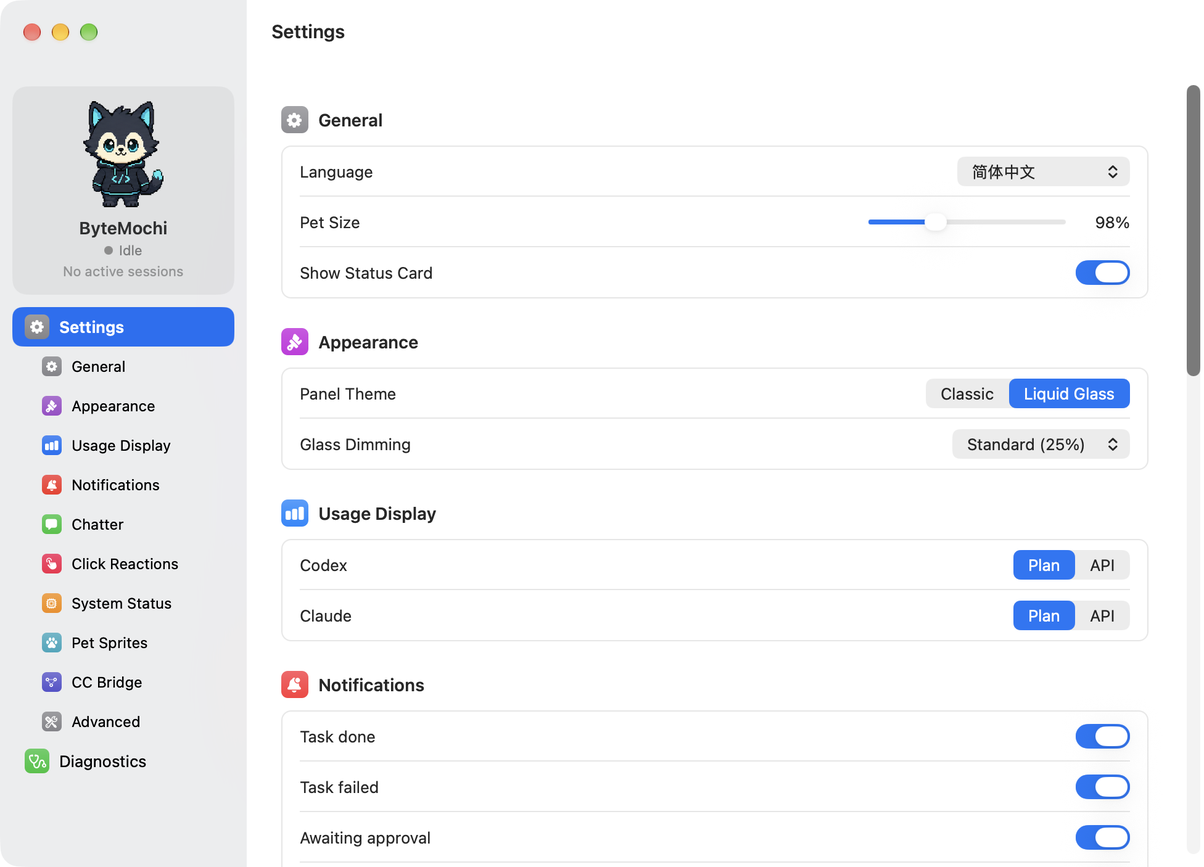
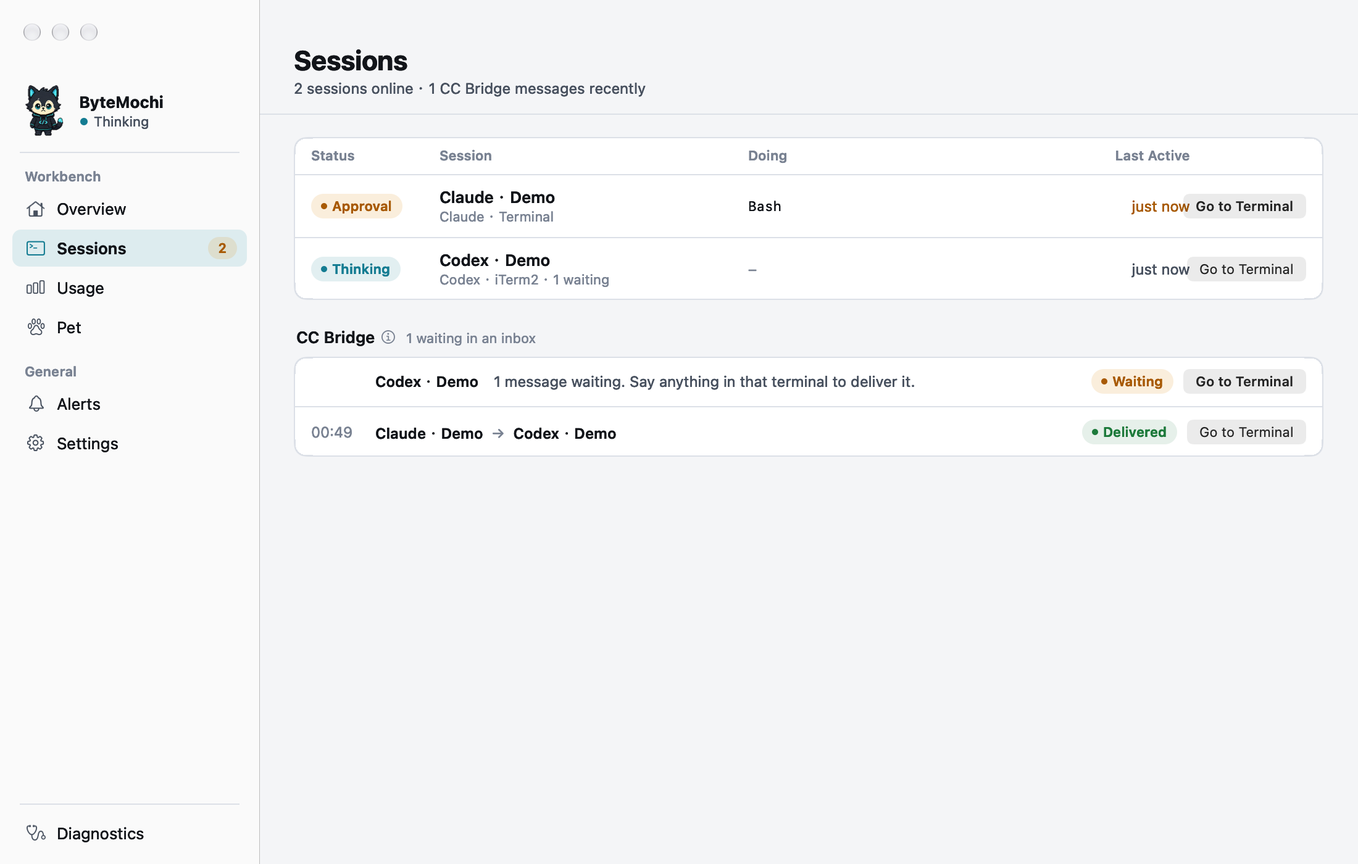
chore: prepare CC Pets v2.3.0 release

diff --git a/docs/release-status.md b/docs/release-status.md
@@ -1,33 +1,51 @@
-# v2.2.1 发布状态
+# v2.3.0 发布准备状态
 
-2026-10-11 已从 `main` 发布正式 tag `v2.2.1` 与 [GitHub Release](https://github.com/Sunnyshinnny776/cc-pets/releases/tag/v2.2.1)。
-本次包含宠物大小、台词来源、菜单与渲染更新。npm 尚未发布；当前机器未登录 npm，等待 npm 负责人发布。
+目标版本为 `v2.3.0`，在 `publish` 分支完成本地发布前准备。代码基线为 `264fc35502f8b73bf87b68ba62883cd552fa0337`（PR #19）。
 
-## 分支职责与发布顺序
+2026-10-20 只读核验：最新 GitHub 正式 Release 和 npm Registry 版本均为 `v2.2.1` / `2.2.1`。
+历史记录见 [v2.2.1 发布状态](release-status-v2.2.1.md)；更早记录见 [v2.2.0 发布状态](release-status-v2.2.0.md)。
 
-- `publish` 完成代码、文档、截图与验证；测试版本使用预发布号并标记 GitHub prerelease。
-- 经明确授权集成 `main` 后复验，正式 tag 和 GitHub Release 从 `main` 发布。
-- npm 发布由独立负责人执行，在 GitHub Release 就绪后协调；未发布 npm 时，自动更新器不会发现新版本。
-- 上一版历史记录见 [v2.2.0 发布状态](release-status-v2.2.0.md)，历史 Release Note 保留。
+## 本次交付范围
 
-## 本次交付
+- 新增主窗口：概览、会话、用量、宠物、提醒、设置和诊断，以及 `cc-pets open [page]`。
+- Claude / Codex 多 Home 账号管理，额度、历史、在线与审批状态、Hooks 和 CC Bridge 集成按账号隔离；用量展示模式按账号保存。
+- 最近 7、30、90 天的本机 Token 用量分析，按账号和模型筛选、每日图表和按日归档。
+- Hooks、CC Bridge、诊断和素材管理的原生运行时；Node.js 仅用于 npm 安装与升级。
+- 诊断页支持已登记账号的 Hooks 和 Claude status line 自动修复，修改前备份；另有窗口外观、玻璃压暗、ByteMochi 迁移及终端、会话和气泡修复。
 
-- `package.json` 更新为 `2.2.1`，构建时写入二进制与 app 元数据。
-- 双语 CHANGELOG 将本次 `Unreleased` 改动归入 `2.2.1`，保留空的 `Unreleased` 小节。
-- 双语 README 更新本版要点、Release Note 链接、版本管理与更新说明读取来源。
-- [双语 Release Note](release-notes-v2.2.1.md) 使用精确语言标题，每种语言 3 条顶层要点，每条不超过 50 字符；补充细节使用段落。
-- 双语 CONTRIBUTING 和本地 `AGENTS.md` 固化每次发版的文档同步、正文解析与先提交再打 tag 规则；本地规则不提交远端。
-- README 封面版本文字更新为 `v2.2.1`，尺寸为 `2560×1280`；界面截图保留其原有版本说明。
+## 发布材料
 
-## 验证与发布进度
+- `package.json` 更新为 `2.3.0`，构建将版本写入二进制及 App 元数据。
+- 双语 README 更新本版要点与 Release Note 链接；双语 CHANGELOG 将已交付改动归入 `2.3.0`，保留空的 `Unreleased` 和全部历史版本。
+- [双语 Release Note](release-notes-v2.3.0.md) 使用精确语言标题，每种语言 3 条顶层要点、每条不超过 50 字符；补充说明使用段落，并链接到本版 tag 的 CHANGELOG。
+- 封面仅替换版本号中的两个数字，尺寸保留 `2560×1280`；逐像素比对共 1545 个像素变化，数字区域外保持一致。
+- 中英文主窗口图更新为当前原生 UI 的会话页，均为 `2200×1400`，使用演示会话数据并在 README 明确标注。旧额度面板和菜单图保留历史版本标注。
 
-- 2026-10-11：在脱离 Codex 共享 daemon 进程链的隔离环境完成 `CC_PETS_STRICT=1 npm test`，全套通过，包括控制终端回落、Retina 图片加载、多语言、CC Bridge、真实事件流与 shim 不污染检查。
-- 首轮直接运行停在控制终端回落检查；源码检测到共享 daemon 时会拒绝推断终端，隔离复验通过，未修改代码或跳过检查。
-- 使用真实 `ReleaseNoteHighlightsForLanguage` 校验本版正文：英语与简体中文各 3 条，无截断；小写 `english` 不匹配。
-- 二进制版本、app 短版本与构建版本均为 `2.2.1`，应用签名、版本文档本地链接与图片路径、diff 空白检查通过。
-- 发布准备提交 `cf885fa` 已推送 `publish`；[PR #11](https://github.com/Sunnyshinnny776/cc-pets/pull/11) 的 macOS CI 通过后 squash 合并到 `main`，集成提交为 `bceca64`。
-- 本地 `main` 集成环境复验 `CC_PETS_STRICT=1 npm test` 全套通过；远端 squash 集成树与本地已验证的发布准备树完全一致。
-- 正式 tag `v2.2.1` 指向 `bceca64`；GitHub Release 为正式版本（非 draft、非 prerelease），使用已提交的本版 Release Note。
-- GitHub Release 正文、远端 tag 中的正文文件与本地已验证文件逐一比对一致。
-- 本地桌面端已安装并重启为 `2.2.1`，签名校验通过，安装的二进制与已验证构建一致。
-- npm 登录检查返回 `ENEEDAUTH`，未执行 npm 发布；自动更新仍等待对应 npm 版本上线。
+## 验证与交接进度
+
+| 阶段 | 状态 |
+| --- | --- |
+| 本地版本与发布材料 | 已完成，纳入本次发布准备提交 |
+| `CC_PETS_STRICT=1 npm test` | 2026-10-20 全套通过，退出码 0 |
+| Release Note 真实解析、版本、签名、链接与封面 | 核验通过，详见下文 |
+| 本地提交 | 2026-10-20：本地 `publish` 发布准备提交，提交号见 Git 历史 |
+| push | 本轮未执行 |
+| PR 创建与合并 | 本轮未执行 |
+| `main` 集成与集成后复验 | 待负责人按单独授权执行 |
+| 正式 tag 与 GitHub Release | 本轮未创建、未发布 |
+| npm 发布 | 本轮未执行 |
+
+Codex 本轮职责为本地发布前准备、验证与经授权的本地提交。正式版本在 `main` 集成复验完成后由其负责人按授权创建 tag、发布 GitHub Release；npm 由既有负责人协调。GitHub Release 正文须使用已提交的本版 Release Note 文件。每项 Git / 发布动作分别授权、分别报告。
+
+## 本轮验证证据
+
+- 严格回归在脱离 Codex 共享 daemon 的临时 runner 中执行（runner 的 PPID 为 1），耗时约 99 秒；包含原生构建、多语言、Release 解析、CC Bridge、真实事件流及 shim 不污染检查，退出码为 0。
+- `package.json`、裸二进制、App 内二进制、`CFBundleShortVersionString` 和 `CFBundleVersion` 均为 `2.3.0`；`codesign --verify --deep --strict` 通过。
+- 使用真实 `ReleaseNoteHighlightsForLanguage` 解析最终正文：英语与简体中文各 3 条，无截断；英语长度为 50、40、47，中文为 18、25、16。小写 `english` 无匹配结果。
+- 40 个本地文档及图片链接存在；Release Note 的 CHANGELOG 链接均指向目标 `v2.3.0` tag，待负责人创建 tag 后生效。
+- 旧 CHANGELOG 版本段保持原样，v2.2.1 发布状态逐字节归档；封面数字区域外逐像素一致。中英文会话页渲染结果已目视核验，真实账号端到端交互本轮未验证。
+- 日志和临时校验程序保存在本地忽略目录 `.build/release-prep-v2.3.0/`；本地 agent 规则保持私有。
+
+## 升级交接
+
+升级后需运行一次 `cc-pets install`，刷新原生集成与已安装 App；重启现有 Codex 会话并在 `/hooks` 中重新信任 Hooks。本轮未执行本机安装或重启。

diff --git a/docs/release-notes-v2.3.0.md b/docs/release-notes-v2.3.0.md
@@ -1,0 +1,51 @@
+## English
+
+CC Pets v2.3.0 adds a main window, multiple Claude / Codex accounts and token usage by model, with a native runtime and diagnostic repairs.
+
+- Manage sessions, usage and settings in one window.
+- Track accounts and token usage by model.
+- Run natively with backed-up diagnostic repairs.
+
+### Main window and usage
+
+Open Overview, Sessions, Usage, Pet, Alerts, Settings or Diagnostics from the menu or `cc-pets open [page]`. Overview shows every registered account; Sessions lists live agents and CC Bridge delivery status, with terminal jump-back. The Usage page filters local history by account and model over 7, 30 or 90 days, with daily stacked charts, cache hit rates and request counts. Daily archives retain usage after old Claude transcripts are removed.
+
+The window has a separate System Default / Light / Dark appearance setting. Pet settings are grouped into shorter pages, the right-click menu keeps common actions, and glass dimming is continuously adjustable from 0–45%.
+
+### Accounts, native runtime and repairs
+
+Default Claude / Codex Homes are integrated automatically; add custom Homes explicitly from Agent Accounts. Quota, history, hooks, CC Bridge integration and live state are scoped to each account. API authentication uses API usage; subscription accounts can choose plan quota or API usage independently. Starting another account on the same terminal clears stale session records.
+
+Hooks, CC Bridge, diagnostics and pet management run natively. Node.js is needed only for npm installation and updates. Diagnostics can repair registered accounts' hooks and Claude status lines, backing up configuration and affected scripts first. Other issues retain manual fix commands; plain `cc-pets doctor` remains read-only.
+
+### Upgrade
+
+Run `cc-pets install` after upgrading to refresh integrations and the installed app. Restart running Codex sessions and trust the updated hooks in `/hooks`. The built-in pet is named ByteMochi; its existing selection and pet-specific lines are migrated without overwriting an existing destination file.
+
+See [CHANGELOG.md](https://github.com/Sunnyshinnny776/cc-pets/blob/v2.3.0/CHANGELOG.md) for the full list.
+
+## 简体中文
+
+CC Pets v2.3.0 新增主窗口、多 Claude / Codex 账号和按模型统计 Token 用量，并提供原生运行时与诊断修复。
+
+- 主窗口集中管理会话、用量与桌宠设置。
+- 多账号独立展示额度，按模型分析 Token 用量。
+- 原生运行时，诊断修复前自动备份。
+
+### 主窗口与用量
+
+从菜单或 `cc-pets open [page]` 打开概览、会话、用量、宠物、提醒、设置或诊断。概览展示所有已登记账号；会话页列出在线 Agent 与 CC Bridge 投递状态，并可跳回终端。用量页支持最近 7、30、90 天，按账号和模型筛选，提供每日堆叠图、缓存命中率和请求数。按日归档让 Claude 旧转录被清理后仍保留历史用量。
+
+主窗口可独立选择跟随系统、浅色或深色外观。桌宠设置拆成更短的页面，右键菜单保留常用操作，玻璃压暗支持 0–45% 连续调节。
+
+### 账号、原生运行时与修复
+
+默认 Claude / Codex Home 自动集成；自定义 Home 从「Agent 账户」手动添加。额度、历史、Hooks、CC Bridge 集成和在线状态按账号隔离。API 认证使用 API 用量，订阅账号可独立选择订阅额度或 API 用量。同一终端切换账号后会清理旧会话记录。
+
+Hooks、CC Bridge、诊断和素材管理均为原生实现，Node.js 只用于 npm 安装和升级。诊断页可修复已登记账号的 Hooks 与 Claude status line，修改前备份配置及相关脚本。其他问题保留手动修复命令；普通 `cc-pets doctor` 继续保持只读。
+
+### 升级
+
+升级后运行一次 `cc-pets install`，刷新集成和已安装 App。重启正在运行的 Codex 会话，并在 `/hooks` 中重新信任更新后的 Hooks。内置宠物更名为 ByteMochi，原有选中状态与专属台词自动迁移，已存在的目标文件不会被覆盖。
+
+完整改动见 [CHANGELOG.zh-CN.md](https://github.com/Sunnyshinnny776/cc-pets/blob/v2.3.0/CHANGELOG.zh-CN.md)。

diff --git a/CHANGELOG.md b/CHANGELOG.md
@@ -7,6 +7,8 @@ truth for the version.
 
 ## [Unreleased]
 
+## [2.3.0] - 2026-10-20
+
 ### Installation
 
 - Everything CC Pets runs is now native: hook installation and removal, CC Bridge (hooks, watcher, MCP server and `cc-pets bridge`), `cc-pets doctor` / `paths`, `cc-pets pet` and the zsh scripts' translations. Node.js is only needed by npm to install and update the package, and CC Bridge hooks no longer start a Node process on every event.
@@ -36,6 +38,7 @@ truth for the version.
 - The right-click menu is trimmed to the everyday items: Pets, Pet Size, Show Status Card, Usage Display, Panel Theme, CC Bridge, Help, Main menu and Quit. Import Codex Pets, Notifications, Click Reactions, System Status, Chatter and Language moved to the window's Pet, Alerts and Settings pages.
 - In full screen or when zoomed to fill the screen, the sidebar is 10 pt wider, its content moves 5 pt right, and menu items get more room between icon and title (and between Chinese characters). In full screen the pet card no longer sits against the top edge of the screen.
 - Glass dimming is now continuous (0–45%) with a slider on the Settings page; the right-click menu keeps its four presets and checks the closest one. The quota card scrim follows the value smoothly.
+- The main window has its own System Default / Light / Dark appearance setting, with teal control accents; the pet's panels keep their separate appearance preference.
 - **Diagnostics** page: the same checks as `cc-pets doctor`, problems first with their fix commands and copy buttons, passing checks folded into one line, **Re-check** and **Copy Report**. Registered accounts' Hooks and Claude status line issues now offer **Auto-fix** and **Fix All**. Configuration and affected scripts are backed up before changes, with a manifest of original paths and permissions; checks run again automatically after repair, and the page shows backup locations and any failures. Other issues retain their manual commands. The PATH order check is shown as a hint to run `cc-pets doctor` in a terminal, because the pet's own PATH is not the terminal's.
 - Added `cc-pets doctor --repair-profile <profile-id>` to repair a registered account's Hooks and Claude status line without reinstalling the app or changing shell configuration. Plain `cc-pets doctor` remains read-only.
 - Added `cc-pets open [page]`. If the pet is running it asks it to open the window; otherwise it launches the app and opens the window. Terminals launching Claude Code or Codex never pop the window up.
@@ -48,6 +51,8 @@ truth for the version.
 
 ### Fixes
 
+- Fixed clipping in scaled status cards and speech bubbles, including the speech bubble's click bounds.
+- Account-aware terminal focus is preserved, and starting a new session on the same terminal removes stale records left by the previous account instead of leaving a stuck Starting row.
 - CLI messages now fill in placeholders containing underscores; `cc-pets bridge enable` previously printed `{MCP_NAME}` instead of `cc-bridge`.
 - An account without quota data or history no longer falls back to another account's cached data in the hover panel or Overview.
 - On Overview, **Check Diagnostics** now sits after the account name and only appears when that account actually has diagnostic warnings or failures; quota data that hasn't been collected yet no longer triggers it.

diff --git a/docs/release-status-v2.2.1.md b/docs/release-status-v2.2.1.md
@@ -1,0 +1,33 @@
+# v2.2.1 发布状态
+
+2026-10-11 已从 `main` 发布正式 tag `v2.2.1` 与 [GitHub Release](https://github.com/Sunnyshinnny776/cc-pets/releases/tag/v2.2.1)。
+本次包含宠物大小、台词来源、菜单与渲染更新。npm 尚未发布；当前机器未登录 npm，等待 npm 负责人发布。
+
+## 分支职责与发布顺序
+
+- `publish` 完成代码、文档、截图与验证；测试版本使用预发布号并标记 GitHub prerelease。
+- 经明确授权集成 `main` 后复验，正式 tag 和 GitHub Release 从 `main` 发布。
+- npm 发布由独立负责人执行，在 GitHub Release 就绪后协调；未发布 npm 时，自动更新器不会发现新版本。
+- 上一版历史记录见 [v2.2.0 发布状态](release-status-v2.2.0.md)，历史 Release Note 保留。
+
+## 本次交付
+
+- `package.json` 更新为 `2.2.1`，构建时写入二进制与 app 元数据。
+- 双语 CHANGELOG 将本次 `Unreleased` 改动归入 `2.2.1`，保留空的 `Unreleased` 小节。
+- 双语 README 更新本版要点、Release Note 链接、版本管理与更新说明读取来源。
+- [双语 Release Note](release-notes-v2.2.1.md) 使用精确语言标题，每种语言 3 条顶层要点，每条不超过 50 字符；补充细节使用段落。
+- 双语 CONTRIBUTING 和本地 `AGENTS.md` 固化每次发版的文档同步、正文解析与先提交再打 tag 规则；本地规则不提交远端。
+- README 封面版本文字更新为 `v2.2.1`，尺寸为 `2560×1280`；界面截图保留其原有版本说明。
+
+## 验证与发布进度
+
+- 2026-10-11：在脱离 Codex 共享 daemon 进程链的隔离环境完成 `CC_PETS_STRICT=1 npm test`，全套通过，包括控制终端回落、Retina 图片加载、多语言、CC Bridge、真实事件流与 shim 不污染检查。
+- 首轮直接运行停在控制终端回落检查；源码检测到共享 daemon 时会拒绝推断终端，隔离复验通过，未修改代码或跳过检查。
+- 使用真实 `ReleaseNoteHighlightsForLanguage` 校验本版正文：英语与简体中文各 3 条，无截断；小写 `english` 不匹配。
+- 二进制版本、app 短版本与构建版本均为 `2.2.1`，应用签名、版本文档本地链接与图片路径、diff 空白检查通过。
+- 发布准备提交 `cf885fa` 已推送 `publish`；[PR #11](https://github.com/Sunnyshinnny776/cc-pets/pull/11) 的 macOS CI 通过后 squash 合并到 `main`，集成提交为 `bceca64`。
+- 本地 `main` 集成环境复验 `CC_PETS_STRICT=1 npm test` 全套通过；远端 squash 集成树与本地已验证的发布准备树完全一致。
+- 正式 tag `v2.2.1` 指向 `bceca64`；GitHub Release 为正式版本（非 draft、非 prerelease），使用已提交的本版 Release Note。
+- GitHub Release 正文、远端 tag 中的正文文件与本地已验证文件逐一比对一致。
+- 本地桌面端已安装并重启为 `2.2.1`，签名校验通过，安装的二进制与已验证构建一致。
+- npm 登录检查返回 `ENEEDAUTH`，未执行 npm 发布；自动更新仍等待对应 npm 版本上线。

diff --git a/README.zh-CN.md b/README.zh-CN.md
@@ -1,5 +1,5 @@
 <p align="center">
-  <img src="docs/images/cover.png" alt="CC Pets v2.2.1：宠物大小调整与台词来源选择">
+  <img src="docs/images/cover.png" alt="CC Pets v2.3.0：主窗口、多账号与按模型统计 Token 用量">
 </p>
 
 # CC Pets
@@ -9,20 +9,20 @@
 一个不依赖 Codex/Claude 桌面端的 macOS 原生桌宠。直接启动桌面端，或启动 Codex CLI / Claude Code CLI 时自动出现，
 并通过 Codex App Server 官方接口与 Claude Code 官方 status line 数据读取 5 小时额度、周额度和周重置时间。
 
-## v2.2.1 新功能
+## v2.3.0 新功能
 
-- **宠物大小调整**：右键「宠物大小」可实时缩放至 50%～200%，设置自动保存；
-  小尺寸宠物的状态卡与气泡同比例缩小，并修复 Retina 屏幕上的精灵图模糊。
-- **台词来源选择**：「碎碎念 → 台词来源」可选择「专属台词」或「默认台词」，
-  立即生效，切换宠物和重启后仍保留。
-- **菜单与编辑器修复**：单选后菜单保持展开、勾选即时更新，长英文标题完整显示；
-  台词编辑器切换语言时统一刷新文案，并保留未保存的编辑。
+- **主窗口**：从菜单或 `cc-pets open` 打开概览、会话、用量、宠物、提醒、设置和诊断，
+  集中查看在线会话、跳转终端和管理桌宠设置。
+- **多账号与模型用量**：登记多个 Claude / Codex Home，按账号隔离额度、历史和在线状态；
+  查看最近 7、30、90 天的 Token 图表，按账号和模型筛选，独立设置订阅额度或 API 用量展示。
+- **原生运行时与诊断修复**：Hooks、CC Bridge 和 CLI 工具运行时无需 Node.js；
+  诊断页可修复已登记账号的 Hooks 和 Claude status line，修改前自动备份配置。
 
-完整改动见 [更新记录](./CHANGELOG.zh-CN.md) 和 [Release Note](./docs/release-notes-v2.2.1.md)。
+完整改动见 [更新记录](./CHANGELOG.zh-CN.md) 和 [Release Note](./docs/release-notes-v2.3.0.md)。
 
 ## 界面预览
 
-简体中文：额度面板与右键菜单。
+简体中文：v2.2.0 额度面板与右键菜单；新版主窗口见下文。
 
 <p align="center">
   <img src="docs/images/liquid-glass-panel.png" width="45%" alt="Liquid Glass 主题下的中文额度面板">
@@ -69,8 +69,10 @@ cc-pets open general       # 还有 pet、accounts、alerts、diagnostics
 ```
 
 <p align="center">
-  <img src="docs/images/main-window.png" width="70%" alt="CC Pets 主窗口：宠物名片和设置页">
+  <img src="docs/images/main-window.png" width="70%" alt="CC Pets v2.3.0 会话页：演示 Agent 会话与 CC Bridge 投递状态">
 </p>
+
+v2.3.0 会话页，使用当前原生 UI 和演示会话数据渲染。
 
 - **侧边栏**：顶部是会动的当前宠物和它的状态，下面分两组：**工作台**（概览、会话、用量、宠物、多账号）
   和**通用**（提醒、设置）。诊断放在最底下，有问题要处理时带角标。

diff --git a/CHANGELOG.zh-CN.md b/CHANGELOG.zh-CN.md
@@ -6,6 +6,8 @@
 
 ## [Unreleased]
 
+## [2.3.0] - 2026-10-20
+
 ### 安装
 
 - CC Pets 运行时的所有部分都改为原生实现：Hooks 的安装与卸载、CC Bridge（hooks、watcher、MCP server 与 `cc-pets bridge`）、`cc-pets doctor` / `paths`、`cc-pets pet`，以及 zsh 脚本的多语言。Node.js 只剩 npm 安装、升级时需要，CC Bridge 的 hook 也不再每次事件都拉起一个 Node 进程。
@@ -35,6 +37,7 @@
 - 右键菜单精简为最常用的几项：管理桌宠、宠物大小、显示消息气泡、用量展示模式、面板主题、CC Bridge、帮助、主菜单 和退出桌宠。导入 Codex 素材、系统通知、连击互动、系统状态、碎碎念和语言移到主窗口的宠物、提醒、设置页。
 - 全屏或 zoom 铺满屏幕时，侧边栏加宽 10pt、内容右移 5pt，菜单项的图标与文字、中文字与字之间也更宽松；全屏时名片不再贴着屏幕顶边。
 - 玻璃压暗改为 0–45% 连续可调，在「设置」页用滑块调；右键菜单仍是四档，勾选最接近当前值的一档。额度卡片的衬底跟着平滑变化。
+- 主窗口可独立选择跟随系统、浅色或深色外观，控件统一使用青色强调色；桌宠面板继续使用各自的外观偏好。
 - **诊断**页：和 `cc-pets doctor` 同一套检查，要处理的问题置顶并带修复命令和「复制命令」，正常项折叠成一行，另有「重新检查」和「复制报告」。已登记账号的 Hooks 和 Claude status line 问题新增「自动修复」与「全部修复」：修改前备份配置及相关脚本，通过清单记录原路径和权限，完成后自动重新检查，并在页面显示备份位置和失败原因。其他问题仍保留手动修复命令。PATH 顺序那一项在主窗口里只提示去终端运行 `cc-pets doctor`，因为桌宠进程自己的 PATH 不是终端的。
 - 新增 `cc-pets doctor --repair-profile <profile-id>`，仅修复指定已登记账号的 Hooks 和 Claude status line，无需重装 App 或修改 shell 配置。普通 `cc-pets doctor` 仍保持只读。
 - 新增 `cc-pets open [page]`：桌宠在运行时请它开窗，否则启动 App 并开窗。终端里启动 Claude Code / Codex 不会弹出主窗口。
@@ -47,6 +50,8 @@
 
 ### 修复
 
+- 修复宠物缩放后状态卡与说话气泡的裁剪，并同步说话气泡的点击区域。
+- 保持多账号下的终端聚焦；同一终端启动新会话时会清理前一个账号遗留的记录，避免会话列表残留「正在启动」。
 - CLI 文案中带下划线的占位符现在会被正确替换；此前 `cc-pets bridge enable` 输出的是 `{MCP_NAME}` 而不是 `cc-bridge`。
 - 账号没有额度数据或历史时，悬停面板和概览不再借用其他账号的缓存。
 - 概览中的「查看诊断」移至账号名称后，仅在该账号确实有诊断警告或失败项时显示；暂未采集到额度不再触发提示。

diff --git a/README.md b/README.md
@@ -1,5 +1,5 @@
 <p align="center">
-  <img src="docs/images/cover.png" alt="CC Pets v2.2.1: adjustable pet size and selectable speech sources">
+  <img src="docs/images/cover.png" alt="CC Pets v2.3.0: main window, multiple accounts and token usage by model">
 </p>
 
 # CC Pets
@@ -13,17 +13,19 @@ Codex App Server interface and Claude Code's official status line input.
 
 > The app and CLI are available in English and Simplified Chinese (see [Language](#language)).
 
-## What's new in v2.2.1
+## What's new in v2.3.0
 
-- **Adjustable pet size** — use **Pet Size** in the right-click menu for live 50%–200%
-  scaling. The setting persists, smaller pets get proportionally smaller status cards
-  and bubbles, and sprites stay sharper on Retina displays.
-- **Selectable speech sources** — choose **Chatter → Line Source → Pet-specific Lines**
-  or **Default Lines**. The choice applies immediately and survives pet changes and restarts.
-- **Menu and editor fixes** — choice menus stay open and update their checkmarks,
-  longer English labels fit, and the lines editor refreshes its language without losing edits.
+- **A main window** — open Overview, Sessions, Usage, Pet, Alerts, Settings and
+  Diagnostics from the menu or `cc-pets open`. See live sessions, jump to their
+  terminals and manage settings in one place.
+- **Multiple accounts and model usage** — register Claude / Codex Homes with
+  isolated quota, history and live state. Filter 7-, 30- and 90-day token charts
+  by account and model, with per-account quota or API usage display.
+- **Native runtime and diagnostic repairs** — hooks, CC Bridge and CLI tools run
+  without Node.js. Repair registered accounts' hooks and Claude status lines
+  from Diagnostics, with configuration backups before changes.
 
-See the [changelog](./CHANGELOG.md) and [release notes](./docs/release-notes-v2.2.1.md) for the full list.
+See the [changelog](./CHANGELOG.md) and [release notes](./docs/release-notes-v2.3.0.md) for the full list.
 
 ## Screenshots
 
@@ -232,8 +234,10 @@ cc-pets open general       # also: pet, accounts, alerts, diagnostics
 ```
 
 <p align="center">
-  <img src="docs/images/main-window.en.png" width="70%" alt="CC Pets main window with the pet card and the Settings page">
+  <img src="docs/images/main-window.en.png" width="70%" alt="CC Pets v2.3.0 Sessions page with illustrative agent sessions and CC Bridge delivery status">
 </p>
+
+The v2.3.0 Sessions page, rendered from the native UI with illustrative session data.
 
 - **Sidebar** — the current pet, animated, with its status, then two groups: **Workbench**
   (Overview, Sessions, Usage, Pet, Multi-Account) and **General** (Alerts,
